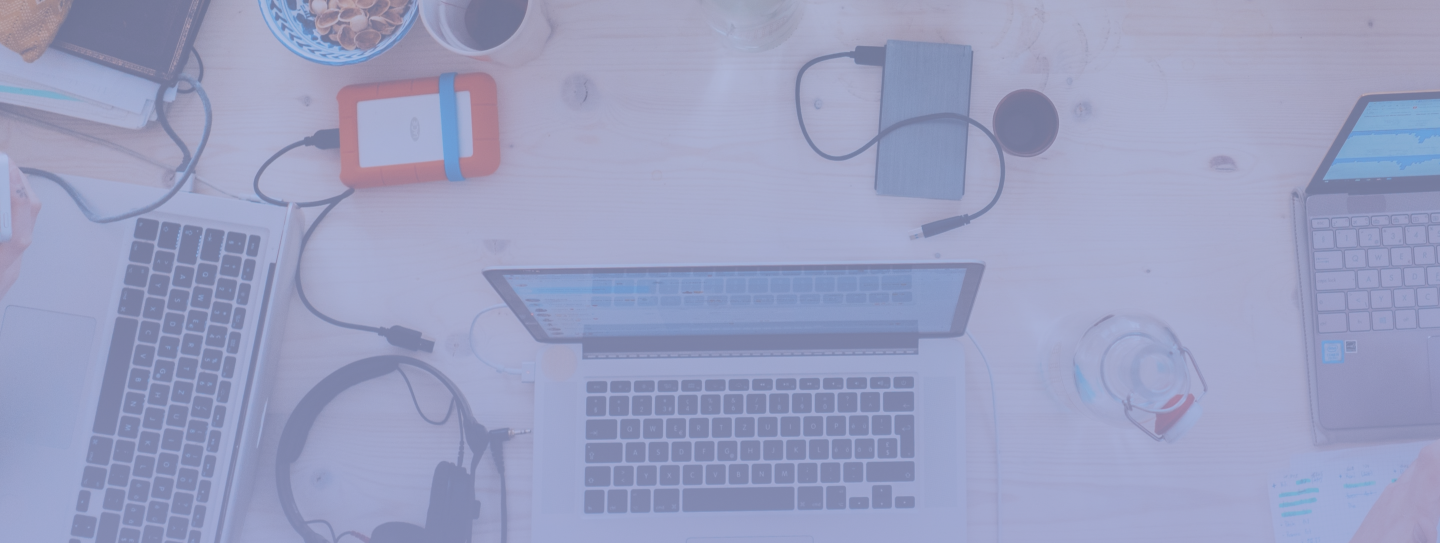
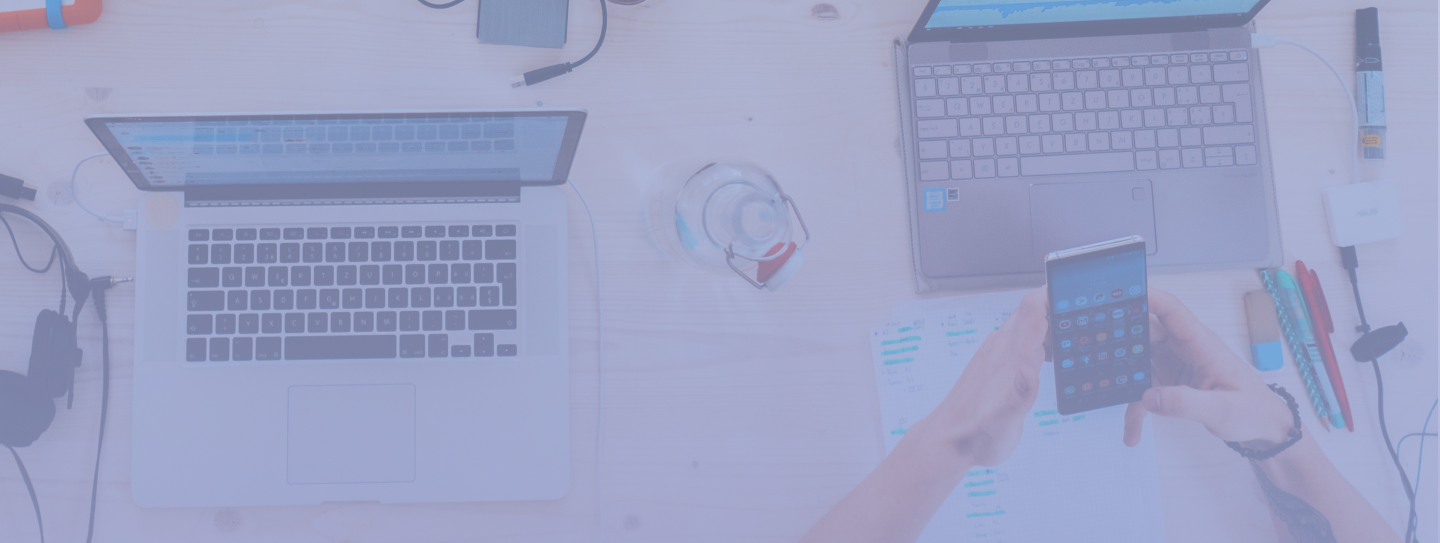
Arrangement de la navbar et header
+ quelques petites corrections

diff --git a/frontend/css/style.css b/frontend/css/style.css
@@ -1,6 +1,5 @@
 html {
     height: 100%;
-    
 }
 
 body {
@@ -16,10 +15,10 @@ h2 {
 }
 
 header {
-    position: absolute;
     font-family: "Montserrat", sans-serif;
-    background: none;
     font-weight: bold;
+    width: 100%;
+    position: absolute;
 }
 
 li {
@@ -35,13 +34,31 @@ ul {
 }
 
 a {
+    float: right;
     color: #ffffff;
+    float: left;
+    text-align: center;
+    padding: 12px;
     text-decoration: none;
+    font-size: 18px;
+    line-height: 25px;
+    border-radius: 4px;
 }
 
 a:hover {
     text-decoration: none;
     color: #fdc54b;
+}
+
+.button {
+    background-color: white;
+    margin-left: 0;
+    height: 45px;
+    color: #9aa2d3;
+    width: 365px;
+    font-weight: bold;
+    font-size: 18px;
+    box-shadow: 0px 0px 15px hsla(0, 0%, 100%, 0.5);
 }
 
 button {
@@ -55,9 +72,15 @@ button {
 }
 
 .nav {
-    position: relative;
     font-size: 18px;
-    margin-right: 0px;
+}
+
+ul > img {
+    overflow: hidden;
+    width: 178px;
+    height: 52px;
+    align-self: center;
+    margin-right: auto;
 }
 
 .bloc-page {
@@ -93,16 +116,16 @@ button {
 .homeSection {
     color: #3b4757;
     text-align: justify;
-    width: 45%;
-    margin-top: 20%;
-    margin-left: 10%;
-    /* position: ; */
+    position: absolute;
+    top: 50%;
+    left: 10%;
+    right: 50%;
+    color: white;
 }
 
 .homeSection > h1 {
-    color: #fdc54b;
     text-align: left;
-    margin-right: -10rem;
+    color: #fdc54b;
 }
 
 /* section service */
@@ -258,39 +281,50 @@ input:focus {
 }
 
 .header-contact {
-    width: 100%;
-    height: 200px;
-    background-image: url("https://images.unsplash.com/photo-1531746790731-6c087fecd65a?ixlib=rb-1.2.1&ixid=eyJhcHBfaWQiOjEyMDd9&auto=format&fit=crop&w=1990&q=80"); /* IMAGE D'EXEMPLE */
-    max-height: 400px;
-    min-height: 400px;
-    /* position: relative; */
+    background-image: url("../img/header_contact.png");
+    max-height: 50vh;
+    min-height: 50vh;
+    overflow: hidden;
+    background-color: #f1f1f1;
+    padding: 20px 10px;
+    background-repeat: no-repeat;
+    background-size: cover;
+    background-position: center;
 }
 
 .header-service {
-    width: 100%;
-    height: 200px;
-    background-image: url("https://images.unsplash.com/photo-1535378620166-273708d44e4c?ixlib=rb-1.2.1&auto=format&fit=crop&w=1132&q=80"); /* IMAGE D'EXEMPLE */
-    max-height: 400px;
-    min-height: 400px;
-    /* position: relative; */
+    background-image: url("../img/header_service.png");
+    max-height: 50vh;
+    min-height: 50vh;
+    overflow: hidden;
+    background-color: #f1f1f1;
+    padding: 20px 10px;
+    background-repeat: no-repeat;
+    background-size: cover;
+    background-position: center;
 }
 
 .header-team {
-    width: 100%;
-    height: 200px;
-    background-image: url("https://images.unsplash.com/photo-1553103291-346188e304d2?ixlib=rb-1.2.1&ixid=eyJhcHBfaWQiOjEyMDd9&auto=format&fit=crop&w=2000&q=80"); /* IMAGE D'EXEMPLE */
-    max-height: 400px;
-    min-height: 400px;
-    /* position: relative; */
+    background-image: url("../img/header_equipe.png");
+    max-height: 50vh;
+    min-height: 50vh;
+    overflow: hidden;
+    background-color: #f1f1f1;
+    padding: 20px 10px;
+    background-repeat: no-repeat;
+    background-size: cover;
+    background-position: center;
 }
 
 .header-home {
-    width: 100%;
-    height: 200px;
-    background-image: url("https://images.unsplash.com/photo-1565538420870-da08ff96a207?ixlib=rb-1.2.1&ixid=eyJhcHBfaWQiOjEyMDd9&auto=format&fit=crop&w=1350&q=80"); /* IMAGE D'EXEMPLE */
-    max-height: 80vh;
-    min-height: 80vh;
-    /* position: relative; */
+    background-image: url("../img/header_home.png");
+    max-height: 100vh;
+    min-height: 100vh;
+    overflow: hidden;
+    background-color: #f1f1f1;
+    padding: 20px 10px;
+    background-repeat: no-repeat;
+    background-size: cover;
 }
 
 /* Connexion page */

diff --git a/frontend/src/view/home.tsx b/frontend/src/view/home.tsx
@@ -9,9 +9,12 @@ export class Home extends React.Component<{}> {
                     <section className='bloc-page'>
                         <p>
                             Lorem ipsum dolor sit amet, consectetur adipiscing elit.Facilisis id purus consectetur lorem nec.Tortor eget sed risus tincidunt ultricies vel.Ornare ultrices sit vitae nunc.Sodales posuere ut et, feugiat urna odio mauris.Morbi hac ultrices viverra ultrices tellus, odio turpis sociis.Quam etiam viverra tortor orci hendrerit massa eget turpis.Egestas quis semper ut pharetra cursus tempus nulla amet, sit.
+                       <br />                 <button className='button'>Voir nos services</button>
+
                         </p>
                     </section>
-                </section></>
-        )
+                </section>
+            </>
+        );
     }
 }

diff --git a/frontend/src/data/router.tsx b/frontend/src/data/router.tsx
@@ -13,6 +13,7 @@ export class Router extends React.Component<{}> {
                 <section className='bloc-page'>
                     <nav className='nav'>
                         <ul className='flex-grid'>
+                            <img src='../../img/logo.png' alt='' />
                             <li><Link to='/'>Accueil</Link></li>
                             <li><Link to='/equipe'>Équipe</Link></li>
                             <li><Link to='/services'>Services</Link></li>
